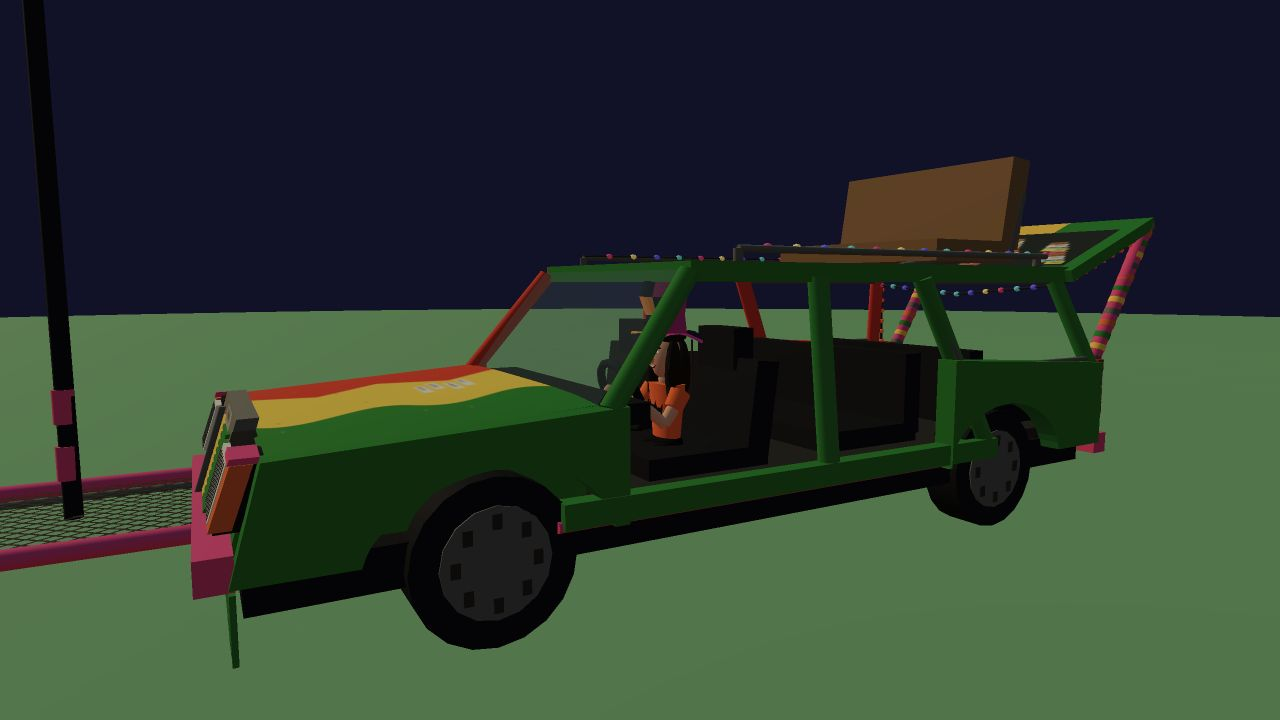
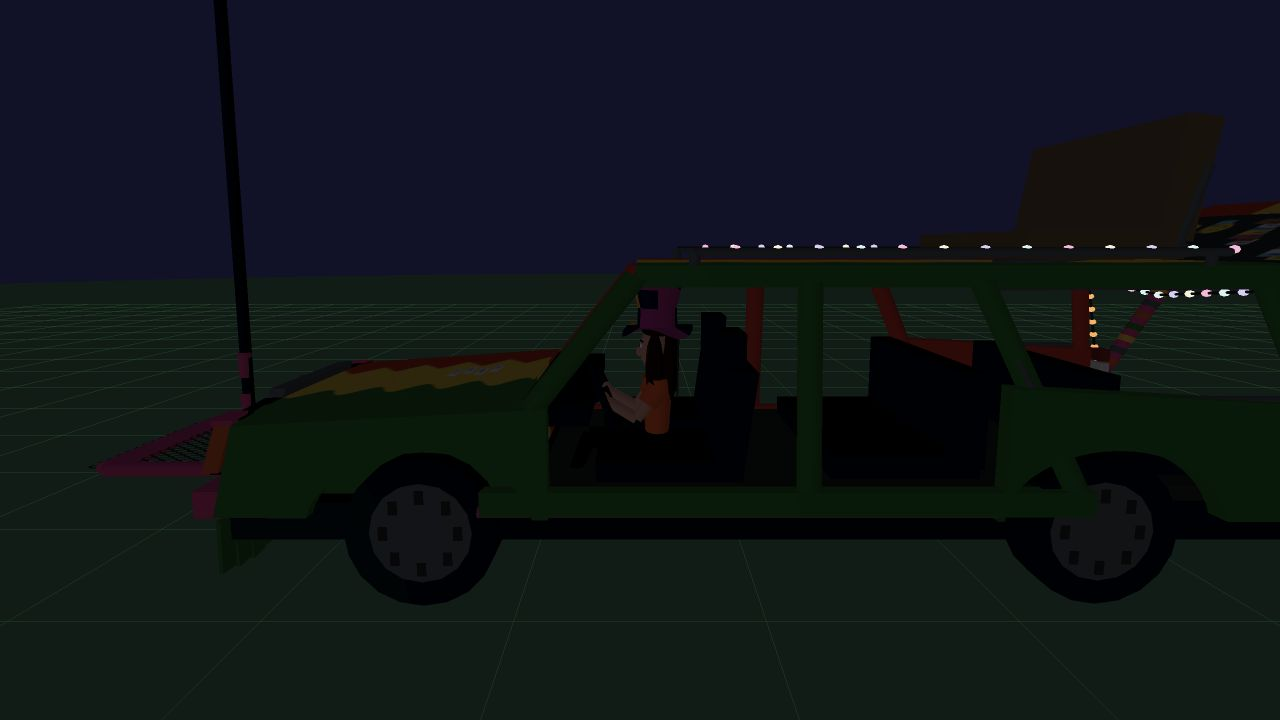
Clear camps from roads and refine wagon seating paint and boarding

diff --git a/verification/nut-wagon/road-clearance.html b/verification/nut-wagon/road-clearance.html
@@ -1,0 +1,22 @@
+<!doctype html><meta charset="utf-8"><title>Campsite road regression</title>
+<script type="importmap">{"imports":{"three":"../../src/threeShim.js","three-actual":"https://unpkg.com/three@0.160.0/build/three.module.js","three/addons/":"https://unpkg.com/three@0.160.0/examples/jsm/"}}</script>
+<pre id="result">Checking…</pre>
+<script type="module">
+import * as THREE from 'three';
+import {ChunkManager} from '../../src/chunks.js';
+import {Crowd} from '../../src/crowd.js';
+import {registry} from '../../src/registry.js';
+import {setSessionSeed} from '../../src/rng.js';
+import {nearestRoad} from '../../src/worldgen/roads.js';
+import {CONFIG} from '../../src/worldgen/constants.js';
+const scene=new THREE.Scene(), crowd=new Crowd({spawn(){}});
+setSessionSeed(2186624078);
+const chunks=new ChunkManager(scene,crowd);
+try {
+ chunks.update(new THREE.Vector3(108.66,0,172.97));
+ const camps=[...registry.entries.values()].filter(e=>e.kind==='campsite');
+ const overlaps=camps.map(e=>({x:e.position.x,z:e.position.z,footprint:e.footprint,roadDistance:nearestRoad(e.position.x,e.position.z).dist})).filter(e=>e.roadDistance<CONFIG.ROAD_WIDTH/2+e.footprint);
+ document.querySelector('#result').textContent=JSON.stringify({pass:camps.length>0&&overlaps.length===0,seed:2186624078,position:[108.66,172.97],camps:camps.length,overlaps},null,2);
+} catch(e){document.querySelector('#result').textContent='FAIL: '+e.stack;}
+finally {for(const [key,chunk] of [...chunks.loaded])chunks._unload(key,chunk);}
+</script>

diff --git a/src/models/bo.js b/src/models/bo.js
@@ -36,8 +36,8 @@ function geometryFor(seated) {
     oval(colors.black, [0,hip+.035,0], [.20,.10,.12]);
     for (const side of [-1,1]) {
         const x = side * .105;
-        const knee = seated ? [x,hip-.05,.36] : [x, .43,.015];
-        const ankle = seated ? [x,hip-.43,.40] : [x,.10,0];
+        const knee = seated ? [x,hip+.025,.57] : [x, .43,.015];
+        const ankle = seated ? [x,hip-.34,.72] : [x,.10,0];
         limb(colors.black,[x,hip,0],knee,.075);
         limb(colors.black,knee,ankle,.06);
         oval(colors.shoe,[x,ankle[1]-.035,ankle[2]+.055],[.075,.055,.14]);
@@ -49,7 +49,7 @@ function geometryFor(seated) {
         oval(colors.skin,[side*.14,hip+.76,.005],[.035,.062,.035]);
         const shoulder = [side*.21,hip+.48,0];
         const elbow = seated ? [side*.24,hip+.24,.17] : [side*.255,hip+.23,.01];
-        const hand = seated ? [side*.23,hip+.46,.425] : [side*.27,hip-.015,.04];
+        const hand = seated ? [side*.23,hip+.39,.425] : [side*.27,hip-.015,.04];
         limb(colors.shirt,shoulder,[side*.235,hip+.355,seated?.085:0],.092);
         limb(colors.skin,[side*.235,hip+.355,seated?.085:0],elbow,.056);
         limb(colors.skin,elbow,hand,.048);
@@ -116,6 +116,7 @@ export function buildBo({seated = false} = {}) {
 export function seatBoInWagon(wagon, mount) {
     const bo = buildBo({seated:true});
     bo.position.set(...mount.position);
+    bo.position.y += .04;
     bo.scale.setScalar(.55);
     wagon.add(bo);
     return bo;

diff --git a/src/chunks.js b/src/chunks.js
@@ -29,7 +29,7 @@ import { roadsInBounds, nearestRoad } from './worldgen/roads.js';
 import { FESTIVAL_TUNING, MODEL_DIMS, clusterExtent } from './worldgen/tuning.js';
 import { chunkOverlapsLake, chunkInLake, isPointInLake } from './lakes.js';
 import { getForestAt, buildForestChunk, chunkInForest, forestAnimatables, forestDrumCircles, forestDrumMusic, buildWorldgenDrumCircle } from './forests.js';
-import { buildCampsite, buildCampChair, buildTorchField, buildVendorCamp, CAMPSITE_SCALE } from './models/campsite.js';
+import { buildCampsite, buildCampChair, buildTorchField, buildVendorCamp, CAMPSITE_SCALE, campsiteFootprint } from './models/campsite.js';
 import { buildTent } from './models/tent.js';
 import { buildFoodTruck, FOOD_TRUCK_SCALE } from './models/foodTruck.js';
 import { buildBubbleJug } from './models/bubbleJug.js';
@@ -2739,6 +2739,8 @@ function placeCampsiteClump(ctx) {
 }
 
 function placeSingleCampsite(ctx, x, z, size = 'small') {
+  // A 4 m center guard misses the 12–20 m scaled vignette, including its tents.
+  if (USE_WORLDGEN_V2 && nearestRoad(x, z).dist < ROAD_RIBBON_WIDTH / 2 + campsiteFootprint(size)) return;
   const camp = buildCampsite(ctx.rng, size);
   camp.group.position.set(x, 0, z);
   camp.group.rotation.y = ctx.rng() * Math.PI * 2;

diff --git a/src/nutWagon.js b/src/nutWagon.js
@@ -107,12 +107,12 @@ export class NutWagon {
   }
 
   boardNearby() {
-    if (this.state !== 'parked' || this.stopTimer < 8) return;
+    if (this.state !== 'parked' || this.stopTimer < 14) return;
     let slot, npc;
     for (const candidate of this.crowd.npcs) {
       if (!['idle', 'walking', 'watching'].includes(candidate.state) || candidate.seatSlot
           || (candidate.wagonCooldownUntil || 0) > this.clock
-          || Math.hypot(candidate.pos.x - this.position.x, candidate.pos.z - this.position.z) >= 7) continue;
+          || Math.hypot(candidate.pos.x - this.position.x, candidate.pos.z - this.position.z) >= 12) continue;
       // The crowd has deliberately exaggerated height variation. Tall riders
       // use the open roof bench instead of clipping through the cabin roof.
       slot = this.seatSlots.find(s => !s.occupied && !s.permanent
@@ -120,7 +120,7 @@ export class NutWagon {
       if (slot) { npc = candidate; break; }
     }
     if (!npc) return;
-    slot.occupied = true; npc.seatSlot = slot; npc.state = 'boarding'; npc.stateTimer = 7;
+    slot.occupied = true; npc.seatSlot = slot; npc.state = 'boarding'; npc.stateTimer = 14;
     npc.wagonCooldownUntil = this.clock + 100;
   }
 

diff --git a/src/models/nutWagon.js b/src/models/nutWagon.js
@@ -50,10 +50,14 @@ function createTemplate() {
         // Courtney's boundary is angular; Bo's is a smooth wave.
         c.fillStyle = '#e44929'; c.fillRect(0, 0, w, h);
         c.fillStyle = '#efca26'; c.beginPath(); c.moveTo(w * .29, 0);
-        for (let y = 0; y <= h; y += 128) c.lineTo(w * (.30 + (y % 256 ? .10 : -.02)), y);
+        for (let i = 0; i <= 10; i++) c.lineTo(w * (.30 + (i % 2 ? .10 : -.02)), h * i / 10);
         c.lineTo(w, h); c.lineTo(w, 0); c.fill();
         c.fillStyle = '#31962e'; c.beginPath(); c.moveTo(w, 0); c.lineTo(w * .73, 0);
-        for (let y = 0; y < h; y += 256) c.bezierCurveTo(w * .58, y + 80, w * .88, y + 168, w * .73, y + 256);
+        const wave = h / 5;
+        for (let i = 0; i < 5; i++) {
+            const y = i * wave;
+            c.bezierCurveTo(w * .58, y + wave * .3125, w * .88, y + wave * .65625, w * .73, y + wave);
+        }
         c.lineTo(w, h); c.fill();
         for (let i = 0; i < 60; i++) {
             c.fillStyle = i % 3 ? '#807c5555' : '#ecdf9c55';

diff --git a/src/models/campsite.js b/src/models/campsite.js
@@ -657,6 +657,10 @@ const SIZE_CONFIG = {
 // One knob — dial it if 2× reads too big or spreads forests too sparse. (Gary)
 export const CAMPSITE_SCALE = 2;
 
+export function campsiteFootprint(size) {
+  return ((SIZE_CONFIG[size] || SIZE_CONFIG.medium).radius + 2) * CAMPSITE_SCALE;
+}
+
 // Tiki torches built OUTSIDE a campsite (stage rings, food-court rings, forest
 // path lanterns, vendor backstage camps, the sandbox) used to render at native
 // size — half the size of the torches inside a campsite, which ride the
@@ -793,7 +797,7 @@ export function buildCampsite(rng = Math.random, size = 'medium') {
   return {
     group: root,
     animatables,
-    footprint: (cfg.radius + 2) * CAMPSITE_SCALE,
+    footprint: campsiteFootprint(size),
   };
 }
 

diff --git a/verification/nut-wagon/system.html b/verification/nut-wagon/system.html
@@ -34,6 +34,9 @@ try {
  const npc=crowd.spawn({pos:new THREE.Vector3(2,0,10),rng:()=>.4});
  wagon.boardNearby(); assert(npc.state==='boarding','Nearby idle NPC reserves an available seat');
  assert(npc.seatSlot.kind==='roof','Tall NPCs use open roof seats instead of clipping into the cabin');
+ const approacher=crowd.spawn({pos:new THREE.Vector3(10,0,10),rng:()=>.3});
+ wagon.boardNearby();
+ assert(approacher.state==='boarding' && approacher.stateTimer===14,'Roadside NPC ten metres away receives enough time to board');
  wagon.worldSeatPosition(npc.seatSlot,npc.pos);
  crowd._tickBoarding(.1,npc,{}, {zerbleIdle:false});
  assert(npc.state==='riding','Wagon boarding is independent of Zerble motion');

diff --git a/verification/nut-wagon/GAMEPLAY.md b/verification/nut-wagon/GAMEPLAY.md
@@ -9,7 +9,7 @@ Gary chose rare ordinary encounters, strongly increased Trip encounters, regular
 - Spawn candidates 65–145 m away; at over 245 m the wagon can recycle when outside the camera view. A local preview can bypass random/off-camera gates.
 - Existing road runs, sampled every two metres and rejected around water/hard colliders. No cross-country shortcuts. The wagon shuttles within one valid run rather than navigating the entire road graph.
 - 0.75 m/s cruising, 24-second stops near three or more NPCs or a registry activity attractor, with a 48-second driving fallback between stops. Gathering stops must be at least 12 m from the previous stop. It yields near Zerble and stops advancing into newly blocked space.
-- Eight seated mounts: one permanent driver and seven passenger places. Regular nearby idle/walking/watching NPCs reserve seats while parked; boarding times out after seven seconds. Tall NPCs use the roof bench because of enclosed-cabin headroom. The platform remains free until standing poses are implemented.
+- Eight seated mounts: one permanent driver and seven passenger places. Regular idle/walking/watching NPCs within 12 m reserve seats while parked; boarding times out after fourteen seconds. Tall NPCs use the roof bench because of enclosed-cabin headroom. The platform remains free until standing poses are implemented.
 - The gameplay root is scaled 1.6× to suit the existing cartoon crowd. The reference-sized model and dimension constants remain unchanged. Seat transforms and collision radii follow this scale.
 - Existing seeded `dub` music generator, not a newly composed reggae track. The panner and distance-fade coordinates follow the wagon; global volume/mute settings apply. No audible audition was performed, honoring silent iteration.
 - Regular NPC ride timers are reused; riders leave only at a parked stop. Wagon passengers do not count against Zerble's capacity, produce Zerble boarding rewards, or leave because Zerble's bubble tank empties.
@@ -22,6 +22,8 @@ Gary chose rare ordinary encounters, strongly increased Trip encounters, regular
 - [Controller checks](system.html?perf=low&mute=1) import the real Three.js library and production Crowd methods. Music uses its deferred pre-initialization path and does not make sound.
 
 ## Verification
+
+The latest controller runs pass 31 assertions, including a regular NPC invited from ten metres away. Boarding now uses a 12 m invitation radius, a 14-second approach timeout and at least 14 seconds remaining at the stop. The [road clearance regression](road-clearance.html?perf=low&mute=1) builds real chunks at Gary's reported seed 2186624078 and position (108.66, 172.97); [saved results](road-clearance.json) show 14 camps and no footprint overlaps with roads. The placement guard uses the same footprint as the scaled campsite model.
 
 The follow-up [Sol-medium adversarial review](adversarial-review.md) found and resolved clearance and stalled-route defects. Rotated footprints now cover the body, hatch and platform, with sub-metre water sampling. After eight seconds blocked, the wagon parks and reverses along its route without a U-turn. It also uses reverse gear at route ends. Both saved browser runs now pass 25 assertions, including blocked-route and narrow-corridor recovery.
 

diff --git a/CHANGELOG.md b/CHANGELOG.md
@@ -9,10 +9,13 @@ All notable changes to Zerble at the Festival. Newest at top. Following [Keep a 
 - **The Nut Wagon cruises through the festival.** One seeded encounter follows clear stretches of the existing roads at 0.75 m/s, pauses near crowds and activity spots for 24 seconds, and carries a driver plus up to seven seated regular NPCs. Encounter rolls are 8% normally and 80% during trips every 45 seconds, with an immediate trip-start roll; spawns and distant recycling happen outside the camera view. The existing spatial dub groove follows the wagon, night lights work, and collider/music/seat cleanup follows its global lifetime. The gameplay instance uses 1.6× scale for cartoon NPCs; tall riders use the open roof seats. A cruising/boarding sandbox case, localhost `?nutwagon=1` preview, and route/controller checks support iteration. Monk groups remain the next phase. [Verification](verification/nut-wagon/GAMEPLAY.md).
 
 ### Fixed
+- **Campsites keep their whole scaled footprint off roads.** Chunk campsite placement now clears the visible ribbon by each site's actual 12–20 m footprint instead of relying on a four-metre center guard. The regression at seed 2186624078, position (108.66, 172.97), retains 14 nearby camps with no road-footprint overlaps. Regenerated campsite layouts can change because rejected sites no longer consume construction RNG.
+- **Bo's seated legs clear the cushion.** His hips sit slightly higher and his knees and feet extend into the footwell, making the bent black-pants silhouette visible through the open doorway.
 - **The Nut Wagon clears its full body and recovers from blocked roads.** Rotated clearance checks include the front platform, open hatch and shoreline corners. After eight seconds blocked, it parks and backs along the road in reverse gear instead of stalling or attempting a U-turn through roadside props. Regression checks and a Sol-medium adversarial follow-up cover these cases.
 - **The debug mute checkbox reflects a silent launch before audio initialization.** Opening the panel after launching with `mute=1` now shows the session mute correctly.
 
 ### Changed
+- **Nut Wagon paint and boarding are easier to read.** The boundaries now have five waves/spikes per panel, between the original eight and the overly broad two. Parked wagons invite regular NPCs from 12 m away and allow 14 seconds for boarding, while reserving enough stopped time to complete the approach.
 - **The Nut Wagon paint follows Bo’s explanation.** Bo’s driver side is green, Courtney’s right side is red, and yellow separates them. The hood and full roof carry a sharp red boundary and a smooth green wave; the fenders, pillars, sills, engine shell and hatch now follow the same side assignment. Pink accessories remain pink. The boundaries use fewer, broader waves and spikes.
 
 ## 2026-10-12

diff --git a/verification/nut-wagon/BO.md b/verification/nut-wagon/BO.md
@@ -10,7 +10,9 @@ The crowd still owns the permanent driver reservation and riding behavior. Its g
 
 ## Verification
 
-The project check passed. Controller checks pass 30 assertions on Low and Standard, including shared resources, driver attachment, roof clearance, hidden generic body and repeated despawn cleanup. The muted Low game boots with Bo's wagon without captured console warnings/errors. The standing Low sandbox reports three scene draws and 4,089 triangles including its ground/background; this is not a whole-game performance benchmark.
+Follow-up: the seated hips are raised 4 cm in wagon-local coordinates, with knees beyond the cushion and feet in the footwell. The side view below shows the corrected legs. The brief Sol-medium post-commit pass of `444d84d` reported no concrete runtime or lifecycle blocker before that agent reached its quota limit.
+
+The project check passed. Controller checks pass 31 assertions on Low and Standard, including shared resources, driver attachment, roof clearance, hidden generic body and repeated despawn cleanup. The muted Low game boots with Bo's wagon without captured console warnings/errors. The standing Low sandbox reports three scene draws and 4,089 triangles including its ground/background; this is not a whole-game performance benchmark.
 
 - [Standing preview](http://127.0.0.1:8765/sandbox.html?entity=bo&mute=1)
 - [Seated preview](http://127.0.0.1:8765/sandbox.html?entity=bo_driving&mute=1)
